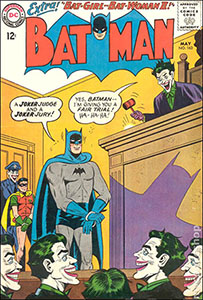
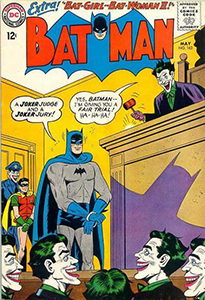
updated images in catalog to exclude watermarks

diff --git a/catalog.php b/catalog.php
@@ -69,25 +69,25 @@
                     <div class="comic-book-cover center-block"><img src="img/comicBookIMages/batman163.jpg"></div>
                     <h3>Batman #163</h3>
                     <h4>Estimated Grade: VG</h4>
-                    <cite>Price: $30</cite>
+                    <h4>Price: $30</h4>
                 </div>
                 <div class="col-xs-6 col-sm-3 catalog-spacer">
                     <div class="comic-book-cover center-block"><img src="img/comicBookIMages/amazingAdventures1.jpg"></div>
                     <h3>Amazing Adventures #1</h3>
                     <h4>Estimated Grade: VF</h4>
-                    <cite>Price: $46</cite>
+                    <h4>Price: $46</h4>
                 </div>
                 <div class="col-xs-6 col-sm-3 catalog-spacer">
-                    <div class="comic-book-cover center-block"><img src="img/comicBookIMages/superman42.jpg"></div>
+                    <div class="comic-book-cover center-block"><img src="img/comicBookIMages/superman.jpg"></div>
                     <h3>Superman #42</h3>
                     <h4>Estimated Grade: VG+</h4>
-                    <cite>Price: $250</cite>
+                    <h4>Price: $250</h4>
                 </div>
                 <div class="col-xs-6 col-sm-3 catalog-spacer">
-                    <div class="comic-book-cover center-block"><img src="img/comicBookIMages/challengers3.jpg"></div>
+                    <div class="comic-book-cover center-block"><img src="img/comicBookIMages/challengers.jpg"></div>
                     <h3>Challengers of the Unknown #3</h3>
                     <h4>Estimated Grade: GD+</h4>
-                    <cite>Price: $70</cite>
+                    <h4>Price: $70</h4>
                 </div>
             </div>
             <div class="row text-center">
@@ -101,19 +101,19 @@
                     <div class="comic-book-cover center-block"><img src="img/comicBookIMages/strange209.jpg"></div>
                     <h3>Strange Adventures #209</h3>
                     <h4>Estimated Grade: VG</h4>
-                    <cite>Price: $18</cite>
+                    <h4>Price: $18</h4>
                 </div>
                 <div class="col-xs-6 col-sm-3 catalog-spacer">
                     <div class="comic-book-cover center-block"><img src="img/comicBookIMages/disney9.jpg"></div>
                     <h3>Walt Disney's Comics and Stories #9</h3>
                     <h4>Estimated Grade: FN-</h4>
-                    <cite>Price: $400</cite>
+                    <h4>Price: $400</h4>
                 </div>
                 <div class="col-xs-6 col-sm-3 catalog-spacer">
                     <div class="comic-book-cover center-block"><img src="img/comicBookIMages/journey84.jpg"></div>
                     <h3>Journey Into Mystery #84</h3>
                     <h4>Estimated Grade: VG+</h4>
-                    <cite>Price: $500</cite>
+                    <h4>Price: $500</h4>
                 </div>
             </div>
             <div class="row text-center">
@@ -121,25 +121,25 @@
                     <div class="placeholder-block-delete-and-add-image center-block"></div>
                     <h3>Comic Book Title</h3>
                     <h4>Estimated Grade: -</h4>
-                    <cite>Price: $-</cite>
+                    <h4>Price: $-</h4>
                 </div>
                 <div class="col-xs-6 col-sm-3 catalog-spacer">
                     <div class="placeholder-block-delete-and-add-image center-block"></div>
                     <h3>Comic Book Title</h3>
                     <h4>Estimated Grade: -</h4>
-                    <cite>Price: $-</cite>
+                    <h4>Price: $-</h4>
                 </div>
                 <div class="col-xs-6 col-sm-3 catalog-spacer">
                     <div class="placeholder-block-delete-and-add-image center-block"></div>
                     <h3>Comic Book Title</h3>
                     <h4>Estimated Grade: -</h4>
-                    <cite>Price: $-</cite>
+                    <h4>Price: $-</h4>
                 </div>
                 <div class="col-xs-6 col-sm-3 catalog-spacer">
                     <div class="placeholder-block-delete-and-add-image center-block"></div>
                     <h3>Comic Book Title</h3>
                     <h4>Estimated Grade: -</h4>
-                    <cite>Price: $-</cite>
+                    <h4>Price: $-</h4>
                 </div>
             </div>
         </div>
